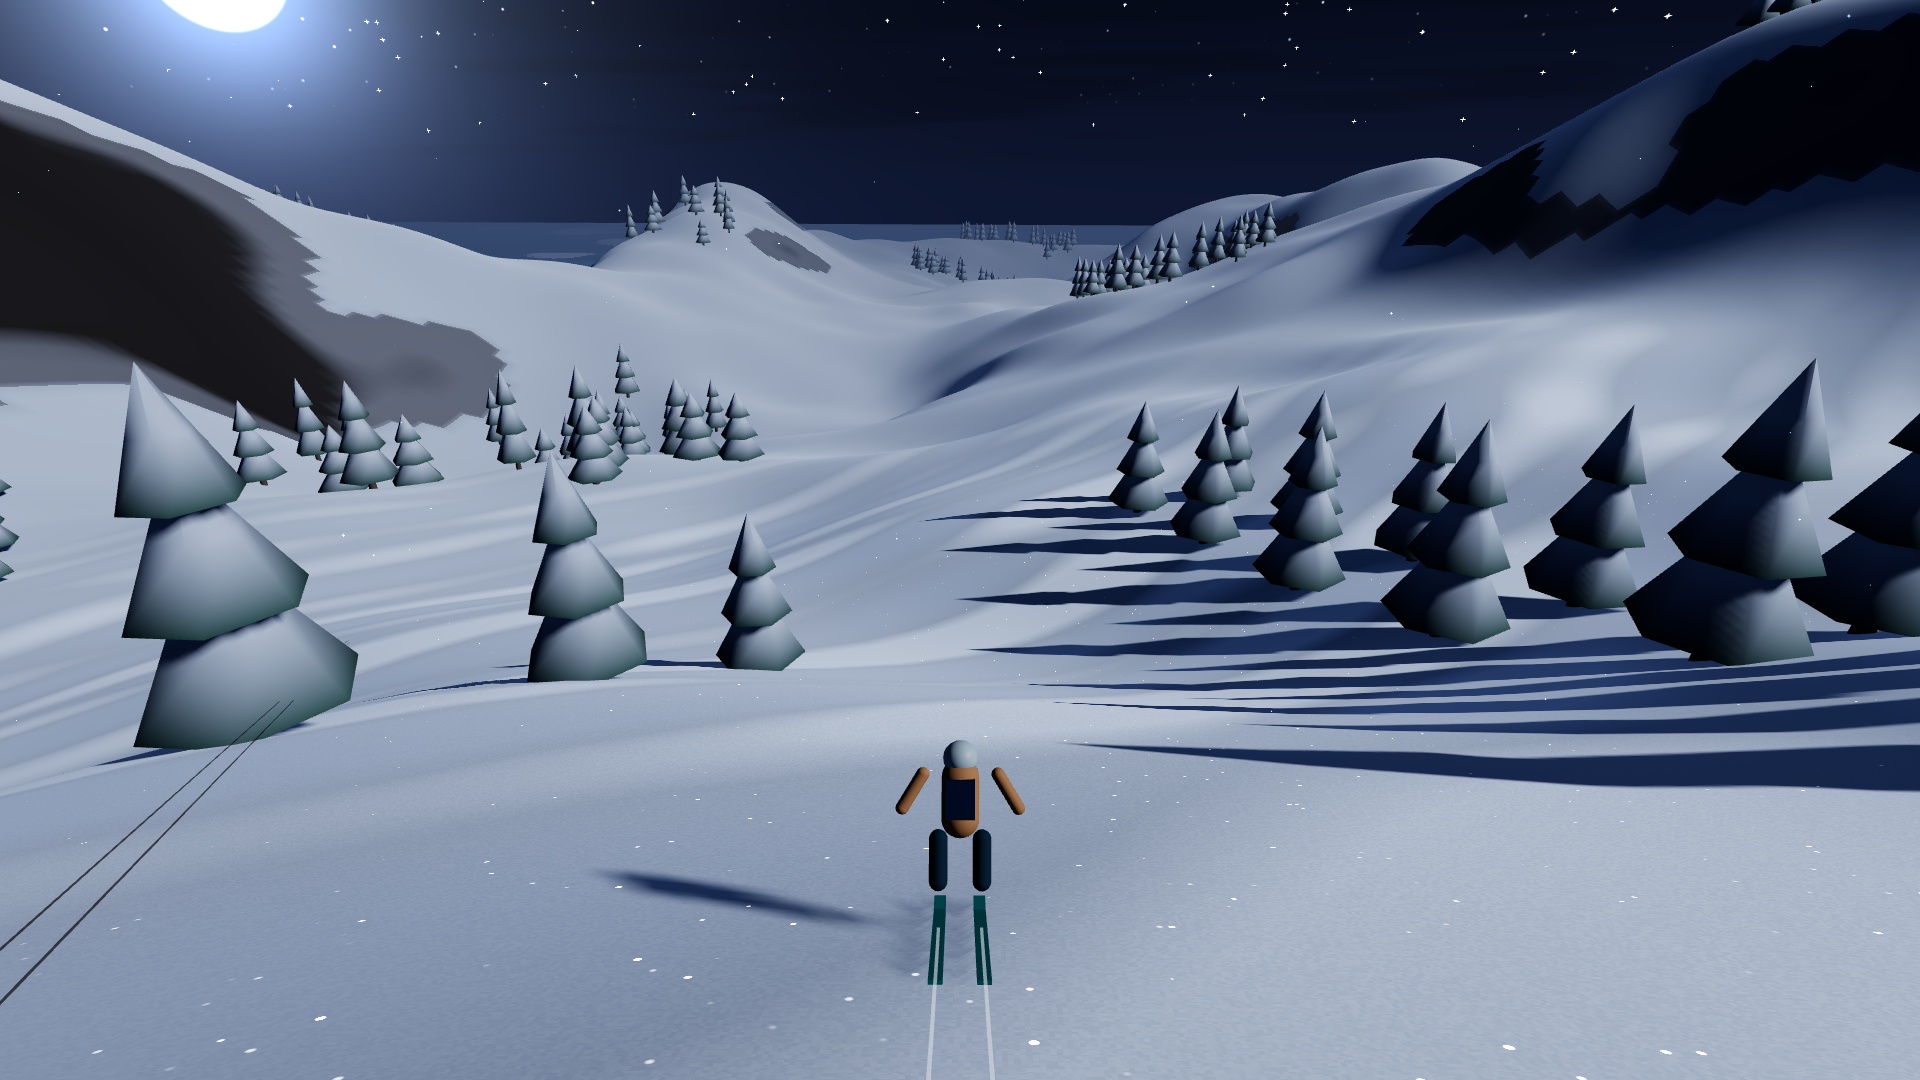
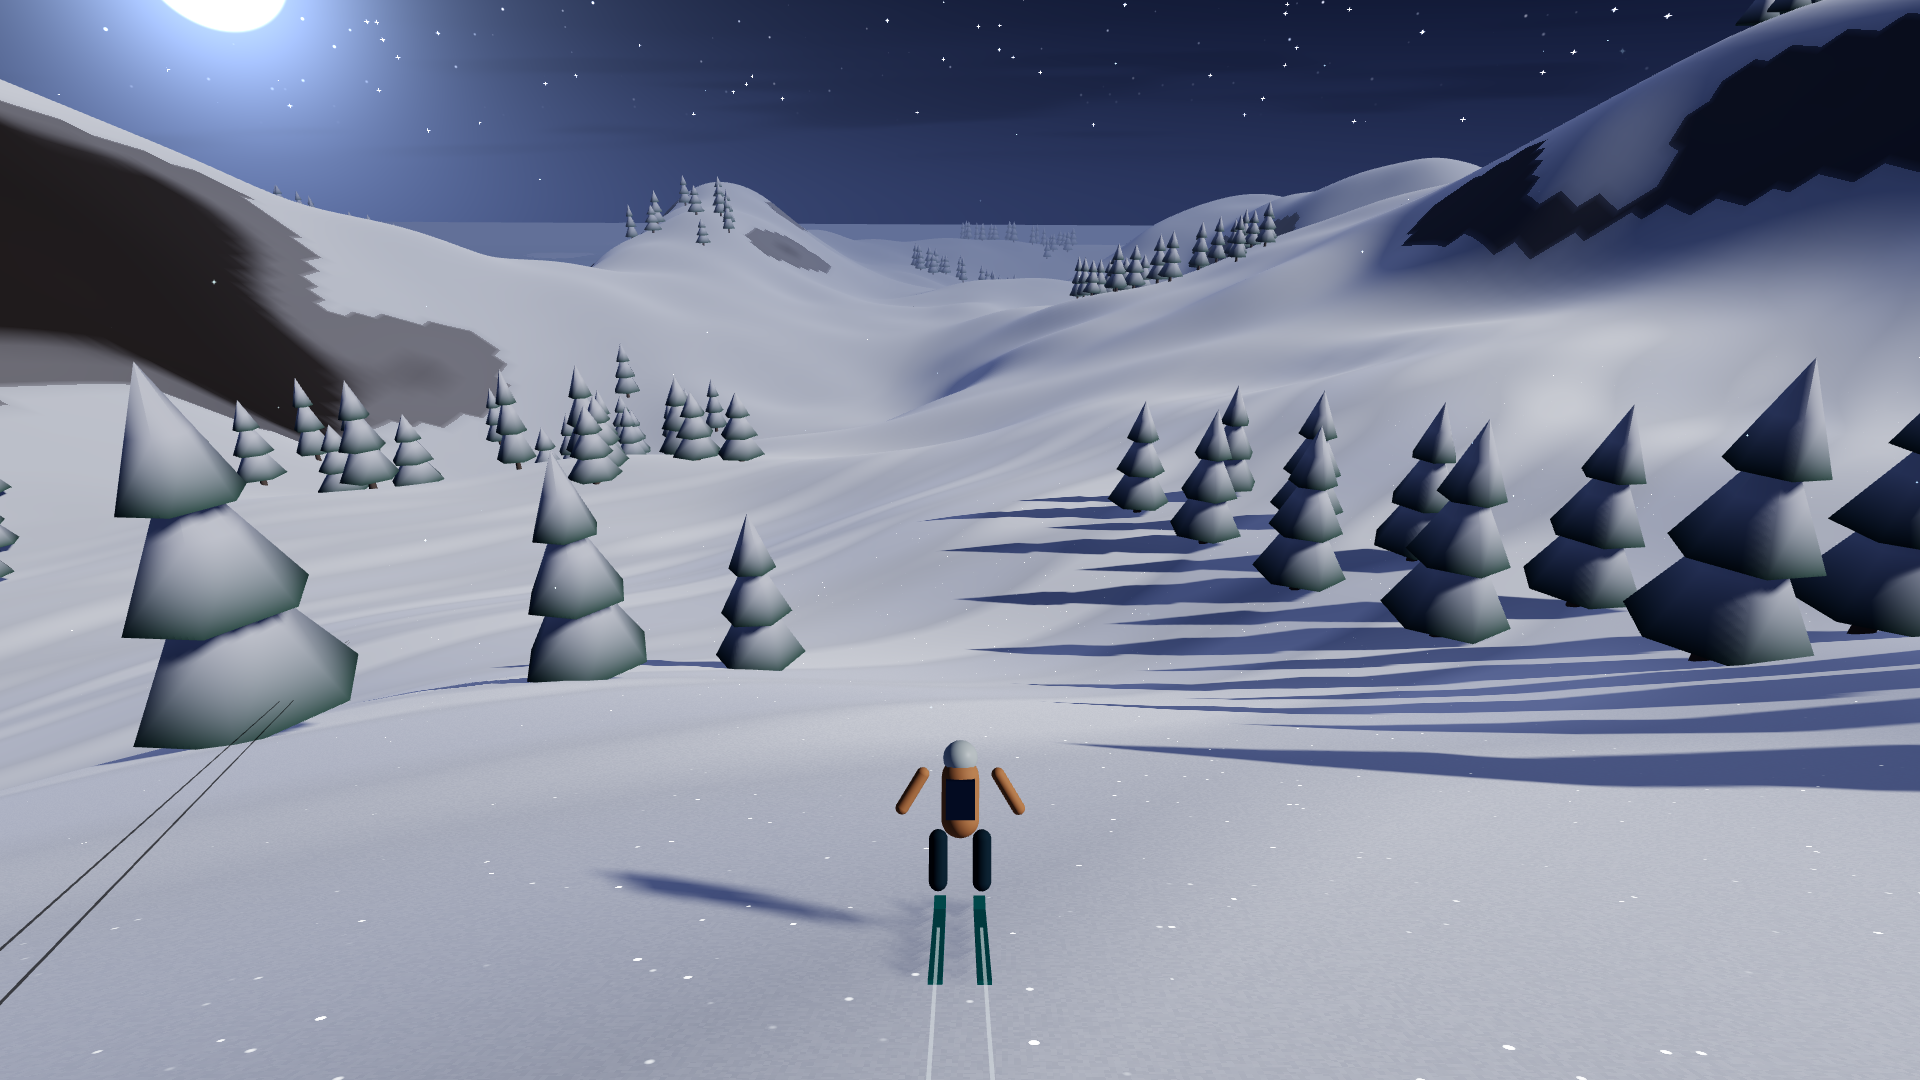
feat(lighting): refine night palette with soft pastel midnight sky and lower contrast moonlit snow

diff --git a/src/renderer.ts b/src/renderer.ts
@@ -25,13 +25,13 @@ export class Renderer {
   public readonly dayFog = new THREE.Color(0xf8ebe6);
   public readonly dayBg = new THREE.Color(0xf6eef3);
 
-  // Night Lighting Palette (Acceptance Criteria 2 - Soft silvery moonlight)
-  public readonly nightMoonColor = new THREE.Color(0xd0e2ff);
-  public readonly nightShadowColor = new THREE.Color(0x42547a);
-  public readonly nightHemiSky = new THREE.Color(0x283a62);
-  public readonly nightHemiGround = new THREE.Color(0x485c82);
-  public readonly nightFog = new THREE.Color(0x36486e);
-  public readonly nightBg = new THREE.Color(0x192744);
+  // Night Lighting Palette (Acceptance Criteria 2 - Soft pastel night glow)
+  public readonly nightMoonColor = new THREE.Color(0xf0f4ff);
+  public readonly nightShadowColor = new THREE.Color(0x727ca8);
+  public readonly nightHemiSky = new THREE.Color(0x44527e);
+  public readonly nightHemiGround = new THREE.Color(0x7a84ac);
+  public readonly nightFog = new THREE.Color(0x627098);
+  public readonly nightBg = new THREE.Color(0x2d3a5a);
 
   public readonly currentSunColor = new THREE.Color();
   public readonly currentShadowColor = new THREE.Color();
@@ -119,22 +119,22 @@ export class Renderer {
     this.currentShadowColor.lerpColors(this.dayShadowColor, this.nightShadowColor, f);
 
     this.dirLight.color.copy(this.currentSunColor);
-    this.dirLight.intensity = THREE.MathUtils.lerp(2.05, 1.62, f);
+    this.dirLight.intensity = THREE.MathUtils.lerp(2.05, 1.42, f);
 
     this.hemiLight.color.lerpColors(this.dayHemiSky, this.nightHemiSky, f);
     this.hemiLight.groundColor.lerpColors(this.dayHemiGround, this.nightHemiGround, f);
-    this.hemiLight.intensity = THREE.MathUtils.lerp(0.88, 0.82, f);
+    this.hemiLight.intensity = THREE.MathUtils.lerp(0.88, 1.02, f);
 
-    this.fillLight.color.lerpColors(new THREE.Color(0xdedbe0), new THREE.Color(0x304260), f);
-    this.fillLight.intensity = THREE.MathUtils.lerp(0.12, 0.10, f);
+    this.fillLight.color.lerpColors(new THREE.Color(0xdedbe0), new THREE.Color(0x52668c), f);
+    this.fillLight.intensity = THREE.MathUtils.lerp(0.12, 0.16, f);
 
     this.scene.background = (new THREE.Color().copy(this.dayBg)).lerp(this.nightBg, f);
     if (this.scene.fog instanceof THREE.Fog) {
       this.scene.fog.color.lerpColors(this.dayFog, this.nightFog, f);
-      this.scene.fog.near = THREE.MathUtils.lerp(180, 130, f);
-      this.scene.fog.far = THREE.MathUtils.lerp(1500, 1420, f);
+      this.scene.fog.near = THREE.MathUtils.lerp(180, 95, f);
+      this.scene.fog.far = THREE.MathUtils.lerp(1500, 1220, f);
     }
-    this.renderer.toneMappingExposure = THREE.MathUtils.lerp(1.08, 1.04, f);
+    this.renderer.toneMappingExposure = THREE.MathUtils.lerp(1.08, 1.06, f);
     this.skyDome.setNightFactor(f);
     this.sparkles.setColor(new THREE.Color(0xffeedd).lerp(new THREE.Color(0xcbe0ff), f));
   }

diff --git a/src/world/SkyDome.ts b/src/world/SkyDome.ts
@@ -15,12 +15,12 @@ export class SkyDome {
       uCloudColor1: { value: new THREE.Color(0xf0d8ce) },   // Pastel warm peach cloud band
       uCloudColor2: { value: new THREE.Color(0xfff4ed) },   // Pastel cream cloud highlight
 
-      // Night Palette (Matching acceptance criteria 2)
-      uNightZenithColor: { value: new THREE.Color(0x182542) },  // Deep midnight sapphire indigo
-      uNightMidColor: { value: new THREE.Color(0x28385a) },     // Muted steel midnight blue
-      uNightHorizonColor: { value: new THREE.Color(0x42547a) }, // Hazy dusky valley blue
-      uNightCloudColor1: { value: new THREE.Color(0x202b40) },  // Dark slate nocturnal cloud
-      uNightCloudColor2: { value: new THREE.Color(0x30405c) },  // Soft night cloud rim
+      // Night Palette (Matching acceptance criteria 2 - Soft pastel night)
+      uNightZenithColor: { value: new THREE.Color(0x283656) },  // Soft pastel midnight navy
+      uNightMidColor: { value: new THREE.Color(0x42527a) },     // Soft pastel slate blue
+      uNightHorizonColor: { value: new THREE.Color(0x6e7ca2) }, // Luminous pastel valley mist
+      uNightCloudColor1: { value: new THREE.Color(0x3a486c) },  // Soft nocturnal cloud
+      uNightCloudColor2: { value: new THREE.Color(0x52628a) },  // Soft night cloud rim
       uMoonDir: { value: new THREE.Vector3(0.58, 0.22, 0.77).normalize() }, // Upper-left moon in night sky (perfectly aligned with left crest)
       uNightFactor: { value: 0.0 },                             // 0 = Day, 1 = Night
       uTime: { value: 0.0 }
@@ -114,13 +114,14 @@ export class SkyDome {
           float moonDot = dot(dir, normalize(uMoonDir));
           if (moonDot > 0.0) {
             float moonDisk = smoothstep(0.9984, 0.9993, moonDot);
-            float halo1 = pow(moonDot, 160.0) * 0.90;
-            float halo2 = pow(moonDot, 40.0) * 0.40;
-            float halo3 = pow(moonDot, 12.0) * 0.18;
-            float totalHalo = (halo1 + halo2 + halo3);
+            float halo1 = pow(moonDot, 140.0) * 0.85;
+            float halo2 = pow(moonDot, 32.0) * 0.40;
+            float halo3 = pow(moonDot, 8.0) * 0.18;
+            float halo4 = pow(moonDot, 2.0) * 0.08;
+            float totalHalo = (halo1 + halo2 + halo3 + halo4);
 
-            vec3 moonDiskCol = vec3(1.0, 0.99, 0.96) * moonDisk * 4.2;
-            vec3 moonHaloCol = vec3(0.70, 0.82, 1.0) * totalHalo * 0.75;
+            vec3 moonDiskCol = vec3(1.0, 0.99, 0.97) * moonDisk * 3.8;
+            vec3 moonHaloCol = vec3(0.76, 0.86, 1.0) * totalHalo * 0.65;
             sky += (moonDiskCol + moonHaloCol) * uNightFactor;
           }
 

diff --git a/src/world/SnowMaterial.ts b/src/world/SnowMaterial.ts
@@ -107,9 +107,9 @@ export function createSnowMaterial(options: SnowMaterialOptions = {}): THREE.Mes
 
       // Day vs Night Snow Albedo:
       // Day: Soft warm ivory/cream
-      // Night: Serene silvery moonlit snow with subtle dusky blue undertone
+      // Night: Serene soft pastel silvery moonlit snow
       vec3 daySnow = vec3(0.996, 0.982, 0.970);
-      vec3 nightSnow = vec3(0.88, 0.93, 0.99);
+      vec3 nightSnow = vec3(0.94, 0.965, 0.995);
       vec3 pastelSnow = mix(daySnow, nightSnow, uNightFactor);
       diffuseColor.rgb = mix(diffuseColor.rgb, pastelSnow + vec3(powderGrain + sastrugiPattern * 0.035), isSnow * 0.70);
       `
@@ -132,11 +132,13 @@ export function createSnowMaterial(options: SnowMaterialOptions = {}): THREE.Mes
         float sastrugiShade = clamp(dU * sunAlign * 1.4, -0.65, 0.65);
 
         // Windswept sastrugi lighting modulation:
-        // Windward crests catch warm direct sun; leeward troughs dip into soft cool lavender shade
+        // Soft pastel modulation without harsh dark contrast
+        float sastrugiWeight = mix(0.42, 0.24, uNightFactor);
+        float leewardWeight = mix(0.32, 0.18, uNightFactor);
         if (sastrugiShade > 0.0) {
-          reflectedLight.directDiffuse += sastrugiShade * 0.42 * uSunColor * shadowFactor;
+          reflectedLight.directDiffuse += sastrugiShade * sastrugiWeight * uSunColor * shadowFactor;
         } else {
-          reflectedLight.indirectDiffuse += (-sastrugiShade) * 0.32 * uShadowColor;
+          reflectedLight.indirectDiffuse += (-sastrugiShade) * leewardWeight * uShadowColor;
         }
 
         // Granular powder micro-contrast: fine crystalline relief up close (< 75m)
@@ -150,11 +152,11 @@ export function createSnowMaterial(options: SnowMaterialOptions = {}): THREE.Mes
 
         // 2. Subsurface Scattering Terminator:
         // Day: Soft pastel peach-cream
-        // Night: Cool dusky indigo-blue
+        // Night: Soft pastel lavender-blue glow
         float worldNdotL = dot(vWorldNormal, uSunDir);
         float sss = smoothstep(-0.30, 0.10, worldNdotL) * smoothstep(0.42, 0.10, worldNdotL);
         vec3 daySss = vec3(0.98, 0.82, 0.75);
-        vec3 nightSss = vec3(0.50, 0.62, 0.84);
+        vec3 nightSss = vec3(0.70, 0.78, 0.95);
         vec3 sssColor = mix(daySss, nightSss, uNightFactor);
         reflectedLight.directDiffuse += sss * sssColor * mix(0.15, 0.09, uNightFactor) * shadowFactor;
 
